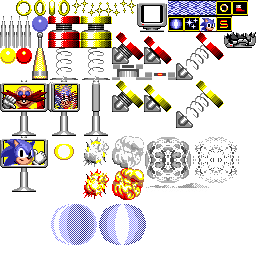
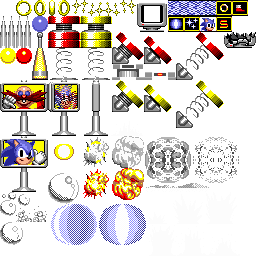
Add water splash, tweak water level in AOZ1

diff --git a/src/player.c b/src/player.c
@@ -46,6 +46,7 @@ SoundEffect sfx_ringl  = { 0 };
 SoundEffect sfx_shield = { 0 };
 SoundEffect sfx_yea    = { 0 };
 SoundEffect sfx_switch = { 0 };
+SoundEffect sfx_splash = { 0 };
 
 // TODO: Maybe shouldn't be extern?
 extern TileMap16  map16;
@@ -53,6 +54,7 @@ extern TileMap128 map128;
 extern LevelData  leveldata;
 extern Camera     camera;
 extern uint8_t    level_ring_count;
+extern int32_t    level_water_y;
 
 void
 load_player(Player *player,
@@ -71,6 +73,7 @@ load_player(Player *player,
     player->framecount = 0;
     player->iframes = 0;
     player->shield = 0;
+    player->underwater = 0;
     player->gsmode = CDIR_FLOOR;
     player->psmode = CDIR_FLOOR;
 
@@ -104,6 +107,7 @@ load_player(Player *player,
     if(sfx_shield.addr == 0) sfx_shield  = sound_load_vag("\\SFX\\SHIELD.VAG;1");
     if(sfx_yea.addr == 0)    sfx_yea     = sound_load_vag("\\SFX\\YEA.VAG;1");
     if(sfx_switch.addr == 0) sfx_switch  = sound_load_vag("\\SFX\\SWITCH.VAG;1");
+    if(sfx_splash.addr == 0) sfx_splash  = sound_load_vag("\\SFX\\SPLASH.VAG;1");
 }
 
 void
@@ -984,6 +988,19 @@ player_update(Player *player)
             if(player->anim_frame > player->cur_anim->end)
                 player->anim_frame = player->cur_anim->start + player->loopback_frame;
         } else player->anim_timer--;
+    }
+
+    if(level_water_y >= 0) {
+        // Underwater state update
+        if(((player->pos.vy > level_water_y) && !player->underwater)
+           || ((player->pos.vy < level_water_y) && player->underwater)) {
+            player->underwater = !player->underwater;
+            PoolObject *explosion = object_pool_create(OBJ_EXPLOSION);
+            explosion->freepos.vx = player->pos.vx;
+            explosion->freepos.vy = level_water_y;
+            explosion->state.anim_state.animation = 2; // Water splash
+            sound_play_vag(sfx_splash, 0);
+        }
     }
 
     // Screen transform

diff --git a/src/screen_level.c b/src/screen_level.c
@@ -253,6 +253,7 @@ screen_level_update(void *d)
             player.anim_dir = 1;
             player.vel.vx = player.vel.vy = player.vel.vz = 0;
             player.psmode = player.gsmode = CDIR_FLOOR;
+            player.underwater = 0;
         }
 
         if(pad_pressed(PAD_CIRCLE)) {
@@ -669,7 +670,7 @@ level_load_level(screen_level_data *data)
         data->level_name = "AMAZING OCEAN";
         data->level_round = 5;
         data->level_act = level - 10;
-        level_water_y = 0x2b0000;
+        level_water_y = 0x2c0000;
         break;
     case 12: case 13:
         data->level_name = "BLAZING FORCE";

diff --git a/src/object_state.c b/src/object_state.c
@@ -287,7 +287,9 @@ begin_render_routine:
     poly->clut = getClut(0, 481);
 
     sort_prim(poly,
-              ((state->id == OBJ_RING) || (state->id == OBJ_SHIELD))
+              ((state->id == OBJ_RING)
+               || (state->id == OBJ_SHIELD)
+               || (state->id == OBJ_EXPLOSION))
               ? OTZ_LAYER_OBJECTS
               : OTZ_LAYER_PLAYER);
 

diff --git a/src/object_state_update.c b/src/object_state_update.c
@@ -598,7 +598,7 @@ _shield_update(ObjectState *state, ObjectTableEntry *, VECTOR *)
     }
 
     state->freepos->vx = player.pos.vx;
-    state->freepos->vy = player.pos.vy + (20 << 12);
+    state->freepos->vy = player.pos.vy + (16 << 12);
 
     // Compensate position since it is drawn before player update
     state->freepos->vx += player.vel.vx;

diff --git a/include/player.h b/include/player.h
@@ -83,6 +83,11 @@ typedef struct {
     uint16_t  iframes;
     uint8_t   shield;
 
+    // TODO: Change this to player value modes.
+    // For now we're only storing info on whether
+    // player is underwater
+    uint8_t underwater;
+
     // Collision modes
     CollMode  gsmode;
     CollMode  psmode;
